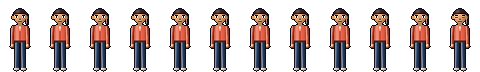
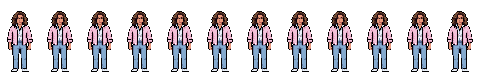
Strickland und Jennifer neu, mit Higgsfield nach Referenzfotos des Nutzers
Modellblätter und Bewegungen mit Nano Banana Pro, Stil an Kowalskis Blatt
angelehnt. figur.cjs zerlegt den Streifen in die zehn Dateien und setzt
Augen, Blinzeln und Mund nach figuren/<figur>.json. Beide Figuren sind vor
npm run paint geschützt.

diff --git a/tools/paint/build.ts b/tools/paint/build.ts
@@ -141,7 +141,7 @@ run('titel', 'assets/ui/title.png', paintTitel, false);
 run('delorean', 'assets/characters/delorean/delorean.png', Sp.zeitwagen, true);
 run('zeitzug', 'assets/characters/zeitzug/zeitzug.png', Sp.zeitzug, true);
 /** Vom Nutzer gezeichnete Figuren: Alle ihre Animationen und das Porträt bleiben unangetastet. */
-const EIGENE_FIGUREN = new Set(['marty', 'lorraine', 'biff', 'einstein', 'kowalski']);
+const EIGENE_FIGUREN = new Set(['marty', 'lorraine', 'biff', 'einstein', 'kowalski', 'strickland', 'jennifer']);
 
 for (const id of FIGURE_IDS) {
   if (EIGENE_FIGUREN.has(id)) continue;

diff --git a/CLAUDE.md b/CLAUDE.md
@@ -23,7 +23,7 @@ Point-&-Click-Adventure im SCUMM-Stil. Phaser 4, TypeScript, Vite, inkjs, navmes
 - **Jede Aktion bekommt eine Antwort.** Reihenfolge: Hotspot-Skript → Kombinationsregel → objektspezifischer Kommentar (`comments` am Hotspot, dann Reaktionstabellen) → Standardspruch der Figur.
 - **Reaktionstabellen in `de.json`:** `reaktion.<raum>_<jahr>.<hotspot>.<verb>`, dazu `mit_<gegenstand>`, `mit` und `gib` für zwei Objekte; `reaktion_item.<gegenstand>.<verb>`, dazu `mit_<gegenstand>`, `benutze_mit` und `gib_an`. Ein Wert ist ein Text der aktiven Figur oder `["sprecher", "Text"]`. Standardsprüche unter `comments.<figur>`, mit eigenen Pools `person`, `ausgang`, `gegenstand` und je Zeitebene `e<jahr>`. `tests/m8-texte.spec.ts` meldet tote oder falsch zugeordnete Einträge. Reaktionen dürfen nichts am Spielstand ändern und müssen zu jedem Zustand der Klickfläche passen.
 - **Stimmen:** Marty lässig, kurz, ironisch. Junger Doc zögerlich („vermutlich“, „das sollte ich notieren“). Doc mit Ausrufen und „Das ist ein Problem!“. Die Tannens verdrehen Sprichwörter. Dialoge haben höchstens 4 Antworten je Knoten; Nebengespräche liegen in eigenen Knoten, Rätselantworten bleiben auf der ersten Ebene.
-- **Grafik:** Hintergründe, große Sprites, Titelbild, Oberfläche (`ui.ts`), Gegenstände (`items.ts`) und Figuren (`figuren.ts`), die letzten beiden in sechsfacher Größe gemalt und verkleinert, malt `tools/paint/` in Echtfarben (`painter.ts`, Materialien in `kit.ts`, je Ort ein Modul); jedes Bild bekommt dann seine eigene 256-Farben-Palette. Stil: The Dig, Full Throttle, jede Zeitebene mit eigener Stimmung. Klickflächen stehen in `src/game/rooms/` und bestimmen, wo gemalt wird. Kleine Sprites kommen aus `tools/pixel/` mit der festen 64-Farben-Palette (`assets/palette.gpl`). Die Spielschrift steht in `tools/pixel/font.ts` (`#` voll, `+` halb hell für Rundungen; Tint färbt sie), die Schrift auf gemalten Schildern getrennt in `tools/paint/schrift.ts` (Stile `antiqua`, `block`, `western`, `neon`, Stämme auf dem Pixelraster); `schild.ts` liefert nur noch Einzelzeichen für Gegenstände und das Breitenmaß. Die Farben der Oberfläche stehen in `src/engine/theme.ts`. Eigene PNGs gleichen Namens ersetzen jedes Bild; `npm run paint` lässt vorhandene Dateien liegen. Vom Nutzer gezeichnete Bilder stehen in `EIGENE_BILDER`, seine Figuren in `EIGENE_FIGUREN` (`tools/paint/build.ts`) und werden auch mit `--force` nie übermalt. Was `tools/` selbst malt, zeigt keine Filmgesichter, keine Filmkostüme und kein Film-Fahrzeug: Die Figuren tragen die Namen der Geschichte, sehen aber erfunden aus. Vom Nutzer gezeichnete Bilder dürfen davon abweichen (Martys Weste ist so gewollt) und werden nicht umgestaltet.
+- **Grafik:** Hintergründe, große Sprites, Titelbild, Oberfläche (`ui.ts`), Gegenstände (`items.ts`) und Figuren (`figuren.ts`), die letzten beiden in sechsfacher Größe gemalt und verkleinert, malt `tools/paint/` in Echtfarben (`painter.ts`, Materialien in `kit.ts`, je Ort ein Modul); jedes Bild bekommt dann seine eigene 256-Farben-Palette. Stil: The Dig, Full Throttle, jede Zeitebene mit eigener Stimmung. Klickflächen stehen in `src/game/rooms/` und bestimmen, wo gemalt wird. Kleine Sprites kommen aus `tools/pixel/` mit der festen 64-Farben-Palette (`assets/palette.gpl`). Die Spielschrift steht in `tools/pixel/font.ts` (`#` voll, `+` halb hell für Rundungen; Tint färbt sie), die Schrift auf gemalten Schildern getrennt in `tools/paint/schrift.ts` (Stile `antiqua`, `block`, `western`, `neon`, Stämme auf dem Pixelraster); `schild.ts` liefert nur noch Einzelzeichen für Gegenstände und das Breitenmaß. Die Farben der Oberfläche stehen in `src/engine/theme.ts`. Eigene PNGs gleichen Namens ersetzen jedes Bild; `npm run paint` lässt vorhandene Dateien liegen. Vom Nutzer gezeichnete Bilder stehen in `EIGENE_BILDER`, seine Figuren in `EIGENE_FIGUREN` (`tools/paint/build.ts`) und werden auch mit `--force` nie übermalt. Die Figuren tragen die Namen der Geschichte und dürfen den Filmfiguren, -schauspielern und -kostümen ähnlich sehen. Kowalski, Strickland und Jennifer sind mit Higgsfield erzeugt: Modellblatt und Bewegungen mit Nano Banana Pro auf Magenta-Grund, dann `tools/higgsfield/` (`extract.cjs` schneidet aus und verkleinert, `compose.cjs` legt die Frames mit gemeinsamer Palette an, `figur.cjs` zerlegt sie mit Augen und Mund aus `figuren/<figur>.json` in die zehn Dateien). Referenzbilder des Nutzers liegen nur lokal unter `referenzen/`.
 - **Figuren:** nur über `assets/characters/characters.json`. Sprites in `assets/characters/<figur>/<figur>_<animation>.png`, 40×72 je Frame, alle Frames in einer Zeile; die Frame-Anzahl ergibt sich aus der Bildbreite. Aussehen und Gerüst stehen in `tools/paint/figuren.ts` (`LOOKS`). `height` in `characters.json` ist die Figurenhöhe, darüber stehen die Sprechtexte. Fehlt eine Animation, greift eine Ersatzregel. Eigene PNGs müssen ohne Codeänderung funktionieren. Die Klickfläche einer Nebenfigur steht beim Hotspot im Raum und muss zur Figurenhöhe passen.
 - **Fahrzeuge:** liegen unter `assets/characters/<name>/`, eingebunden als Hotspot-Sprite. Zeitzug (180×76) und Wagen im Museum (130×44) malen `zeitzug` und `zeitwagen` in `tools/paint/sprites.ts` (eigene Entwürfe, ohne Filmsymbol).
 - **Audio:** eigene Stücke, nie Filmmusik. Alle Stücke teilen ein Leitmotiv (`tools/audio/build.ts`, Stufen statt Noten; FM-Stimmen in `synth.ts`). Listen, Stimmen und Zuordnung zur Zeitebene in `src/game/audio.ts`, Dateien unter `assets/audio/<name>.wav`; gleichnamige Datei ersetzen genügt. `M` schaltet stumm. Der Ton lädt im Hintergrund (`engine/AudioLoadScene.ts`); das Spiel wartet nie darauf, ein Stück setzt ein, sobald seine Datei da ist.
